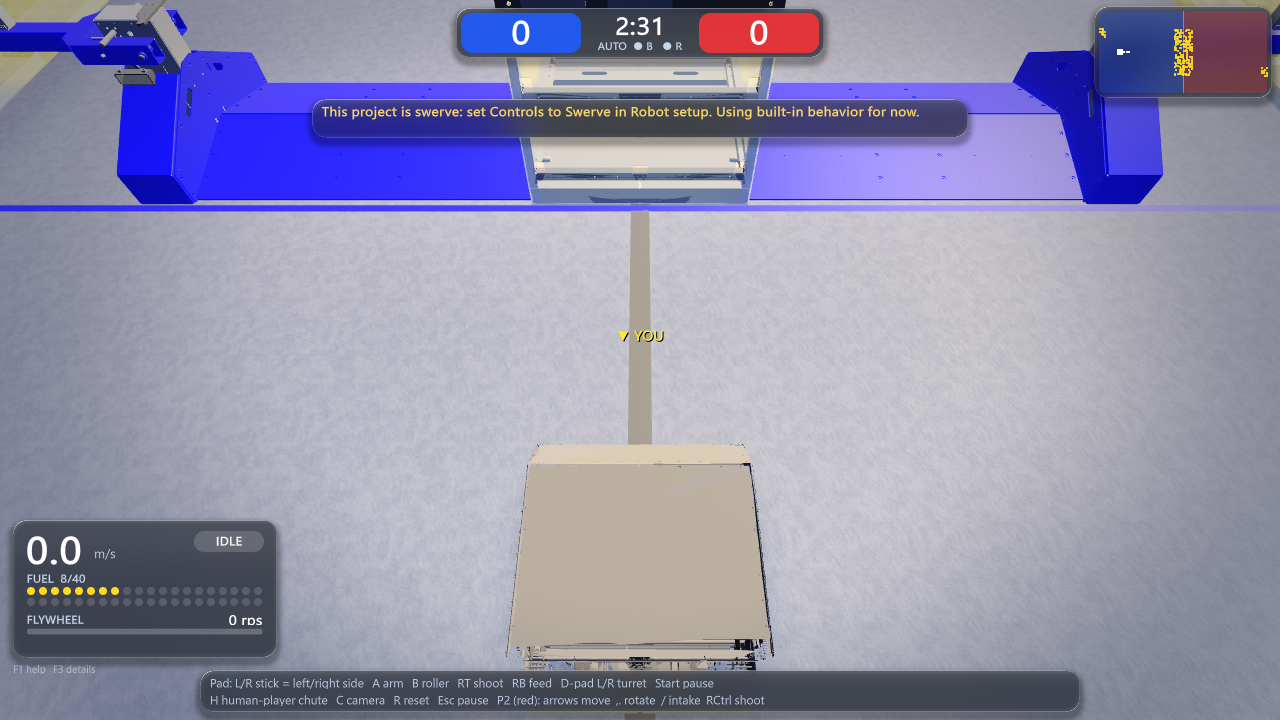
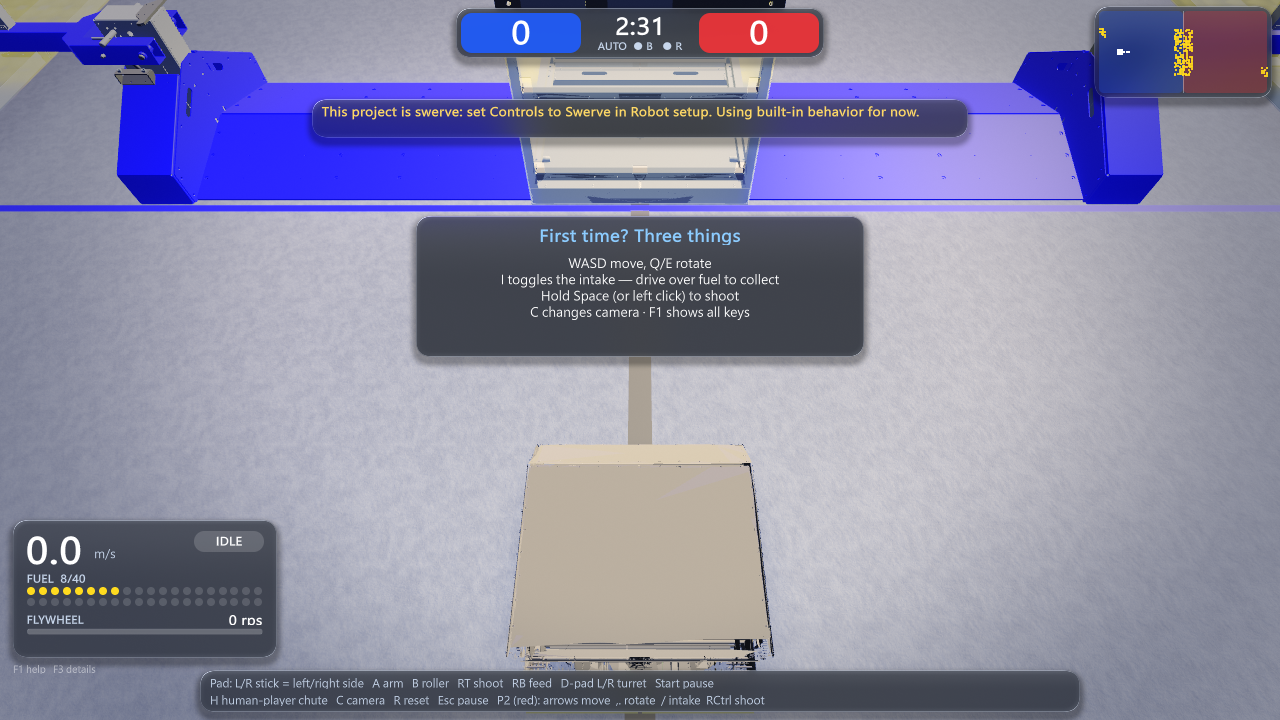
v0.5.40 tutorial card

Changed region(s): [[0.3125, 0.275, 0.6875, 0.5194]]

diff --git a/Assets/Scripts/Sim/SimHud.cs b/Assets/Scripts/Sim/SimHud.cs
@@ -35,6 +35,7 @@ namespace FrcSim
         void Start() { born = Time.unscaledTime; if (System.Array.IndexOf(System.Environment.GetCommandLineArgs(), "-f12test") >= 0) Invoke(nameof(TestShot), 8f); }
         void TestShot() { StartCoroutine(SaveShot()); }
 
+        float tutStart = -1f; bool tutDone, tutKey;
         string shotMsg = "", bannerPhase, bannerText = ""; float shotUntil, bannerUntil;
         System.Collections.IEnumerator SaveShot()
         {
@@ -55,6 +56,7 @@ namespace FrcSim
         {
             fps = Mathf.Lerp(fps, 1f / Mathf.Max(Time.unscaledDeltaTime, 1e-4f), 0.05f);
             if (Input.GetKeyDown(KeyCode.F3)) showDebug = !showDebug;
+            if (tutStart >= 0f && Input.GetKeyDown(KeyCode.Space)) tutKey = true;
             if (Input.GetKeyDown(KeyCode.F12)) StartCoroutine(SaveShot());
             if (Input.GetKeyDown(KeyCode.G) && !MenuSystem.Blocking) Prefs.SetInt("minimap", Prefs.GetInt("minimap", 1) == 1 ? 0 : 1);
             if (Input.GetKeyDown(KeyCode.F5) && !MenuSystem.Blocking) GameSession.Rematch();
@@ -243,6 +245,20 @@ namespace FrcSim
             }
             GUI.Label(new Rect(16, H - 74, 300, 20), L("F1 按鍵說明   F3 詳細數據", "F1 help   F3 details"), Style(12, new Color(1f, 1f, 1f, 0.55f)));
             DrawMinimap(W);
+            // 新手提示:第一次進比賽顯示 12 秒操作重點(按任意常用鍵或時間到就收起);測試旗標 -tuttest 強制顯示
+            if (tutStart < 0f && (Prefs.GetInt("tutSeen", 0) == 0 || System.Array.IndexOf(System.Environment.GetCommandLineArgs(), "-tuttest") >= 0) && !MenuSystem.Blocking) tutStart = Time.unscaledTime;
+            if (tutStart >= 0f && !tutDone)
+            {
+                float tt = Time.unscaledTime - tutStart; float ta = Mathf.Clamp01(Mathf.Min(tt * 2f, (12f - tt) * 1.5f));
+                if (tt > 12f || (tutKey && tt > 4f)) { tutDone = true; if (!SuperSample.IsTestRun()) { Prefs.SetInt("tutSeen", 1); PlayerPrefs.Save(); } }
+                else
+                {
+                    var tr2 = new Rect(cx - 280, H * 0.30f, 560, 176); GUI.color = new Color(1, 1, 1, ta); Panel(tr2, 0.8f);
+                    GUI.Label(new Rect(tr2.x, tr2.y + 10, tr2.width, 30), L("第一次玩?三個重點", "First time? Three things"), Style(20, new Color(0.55f, 0.8f, 1f, ta), TextAnchor.MiddleCenter, FontStyle.Bold));
+                    GUI.Label(new Rect(tr2.x + 30, tr2.y + 46, tr2.width - 60, 120), L("WASD 移動、Q/E 旋轉\nI 放下收球手臂,靠近球自動吸\n空白鍵(或滑鼠左鍵)按住發射\nC 切換視角 ・ F1 看全部按鍵", "WASD move, Q/E rotate\nI toggles the intake — drive over fuel to collect\nHold Space (or left click) to shoot\nC changes camera · F1 shows all keys"), Style(16, new Color(1, 1, 1, ta), TextAnchor.UpperCenter));
+                    GUI.color = Color.white;
+                }
+            }
             // 階段切換橫幅:AUTO / 轉換期 / SHIFT / END GAME 變換時,畫面中上方淡出大字
             if (ScoreManager.ClockOn && ScoreManager.Phase != bannerPhase) { if (bannerPhase != null && !ScoreManager.Ended) { bannerUntil = Time.unscaledTime + 1.8f; bannerText = PhaseName(ScoreManager.Phase); } bannerPhase = ScoreManager.Phase; }
             if (Time.unscaledTime < bannerUntil)
@@ -396,6 +412,9 @@ namespace FrcSim
         }
     }
 }
+
+
+
 
 
 

diff --git a/Assets/Scripts/Sim/UpdateCheck.cs b/Assets/Scripts/Sim/UpdateCheck.cs
@@ -17,7 +17,7 @@ namespace FrcSim
     //   找不到差異包(或失敗)時退回「開啟下載頁」,讓使用者手動下載完整版。
     public class UpdateCheck : MonoBehaviour
     {
-        public const string Current = "0.5.39";
+        public const string Current = "0.5.40";
         const string Repo = "frc9427liu-tech/FRC9427-SimApp";
         const string ReleasesApi = "https://api.github.com/repos/" + Repo + "/releases?per_page=30";
         public const string Page = "https://github.com/" + Repo + "/releases/latest";
@@ -235,6 +235,7 @@ Start-Process -FilePath $Exe -WorkingDirectory $Dst
 ";
     }
 }
+
 
 
 
